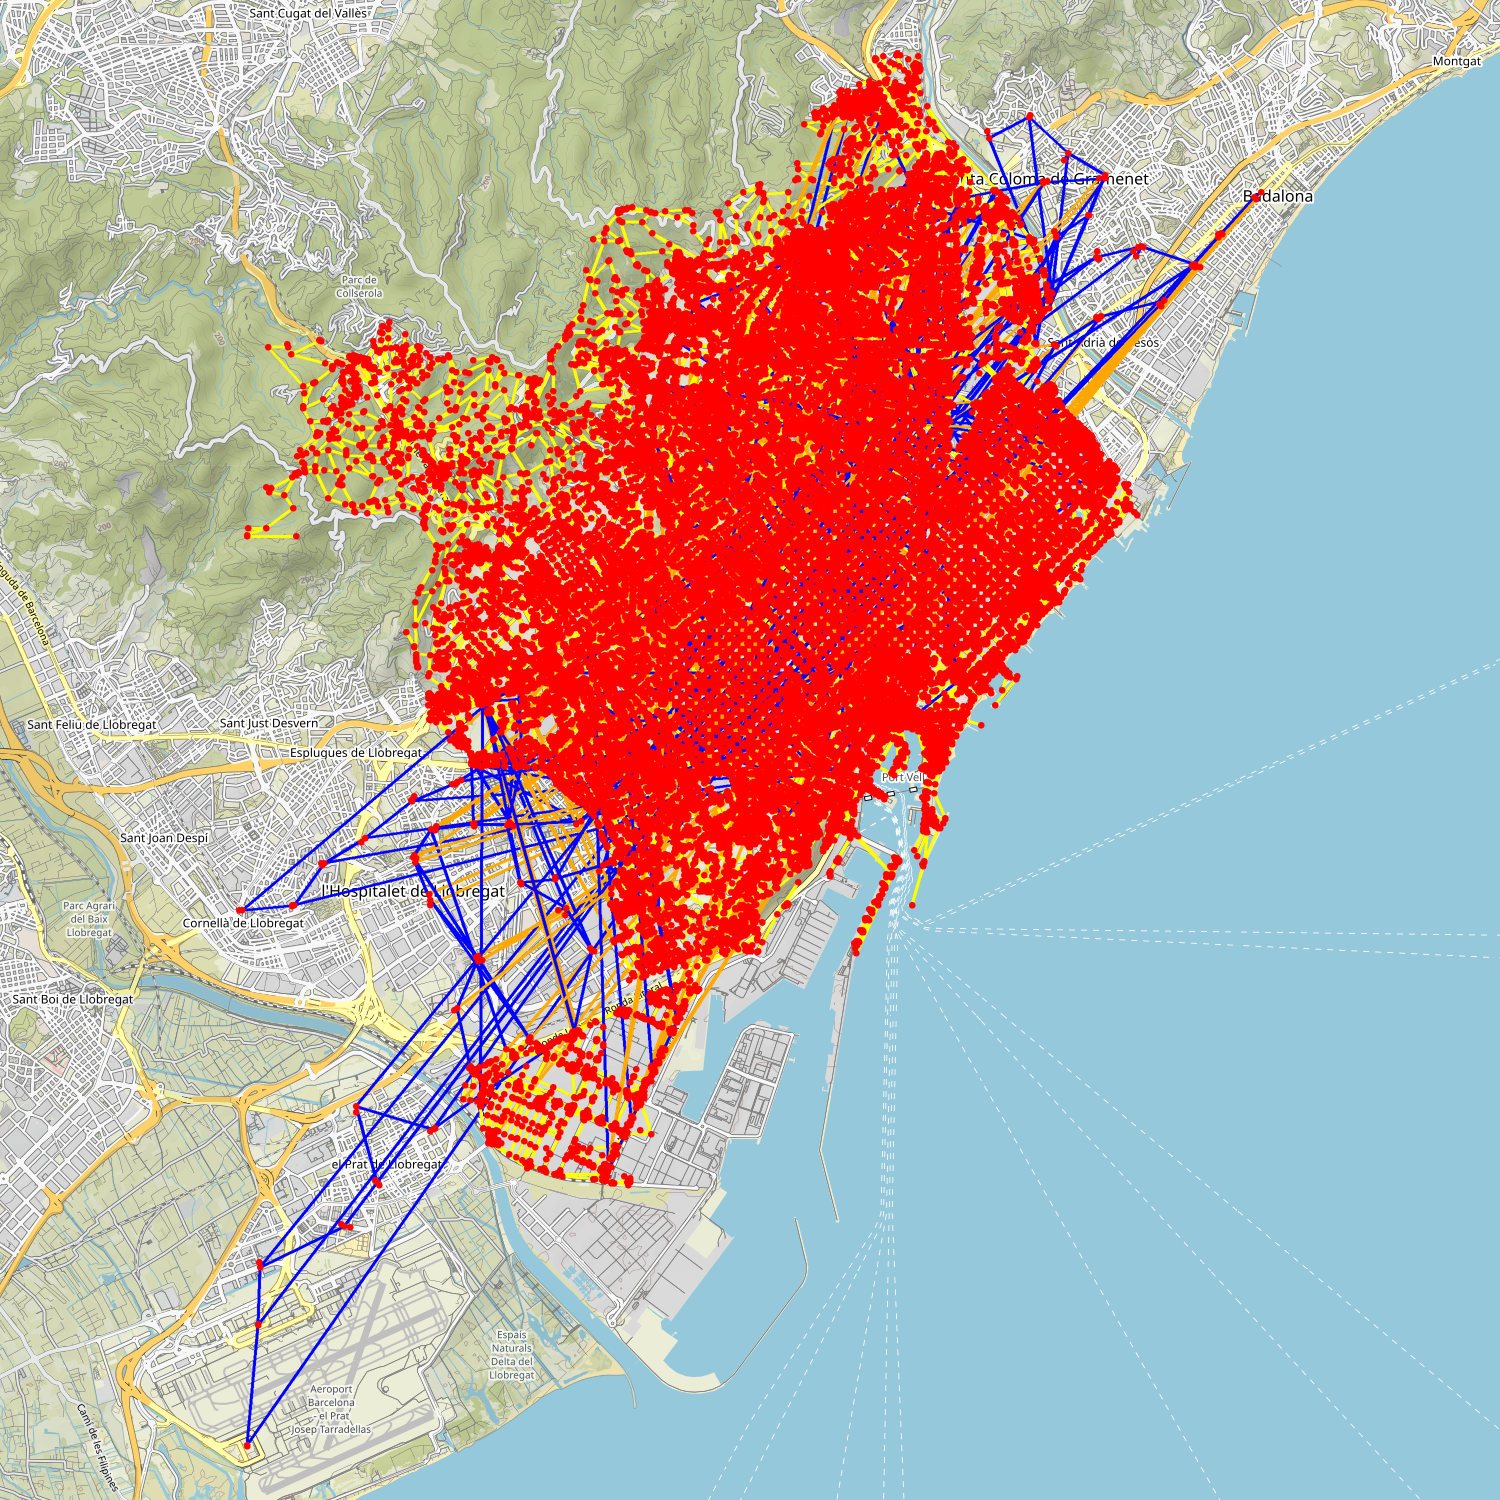
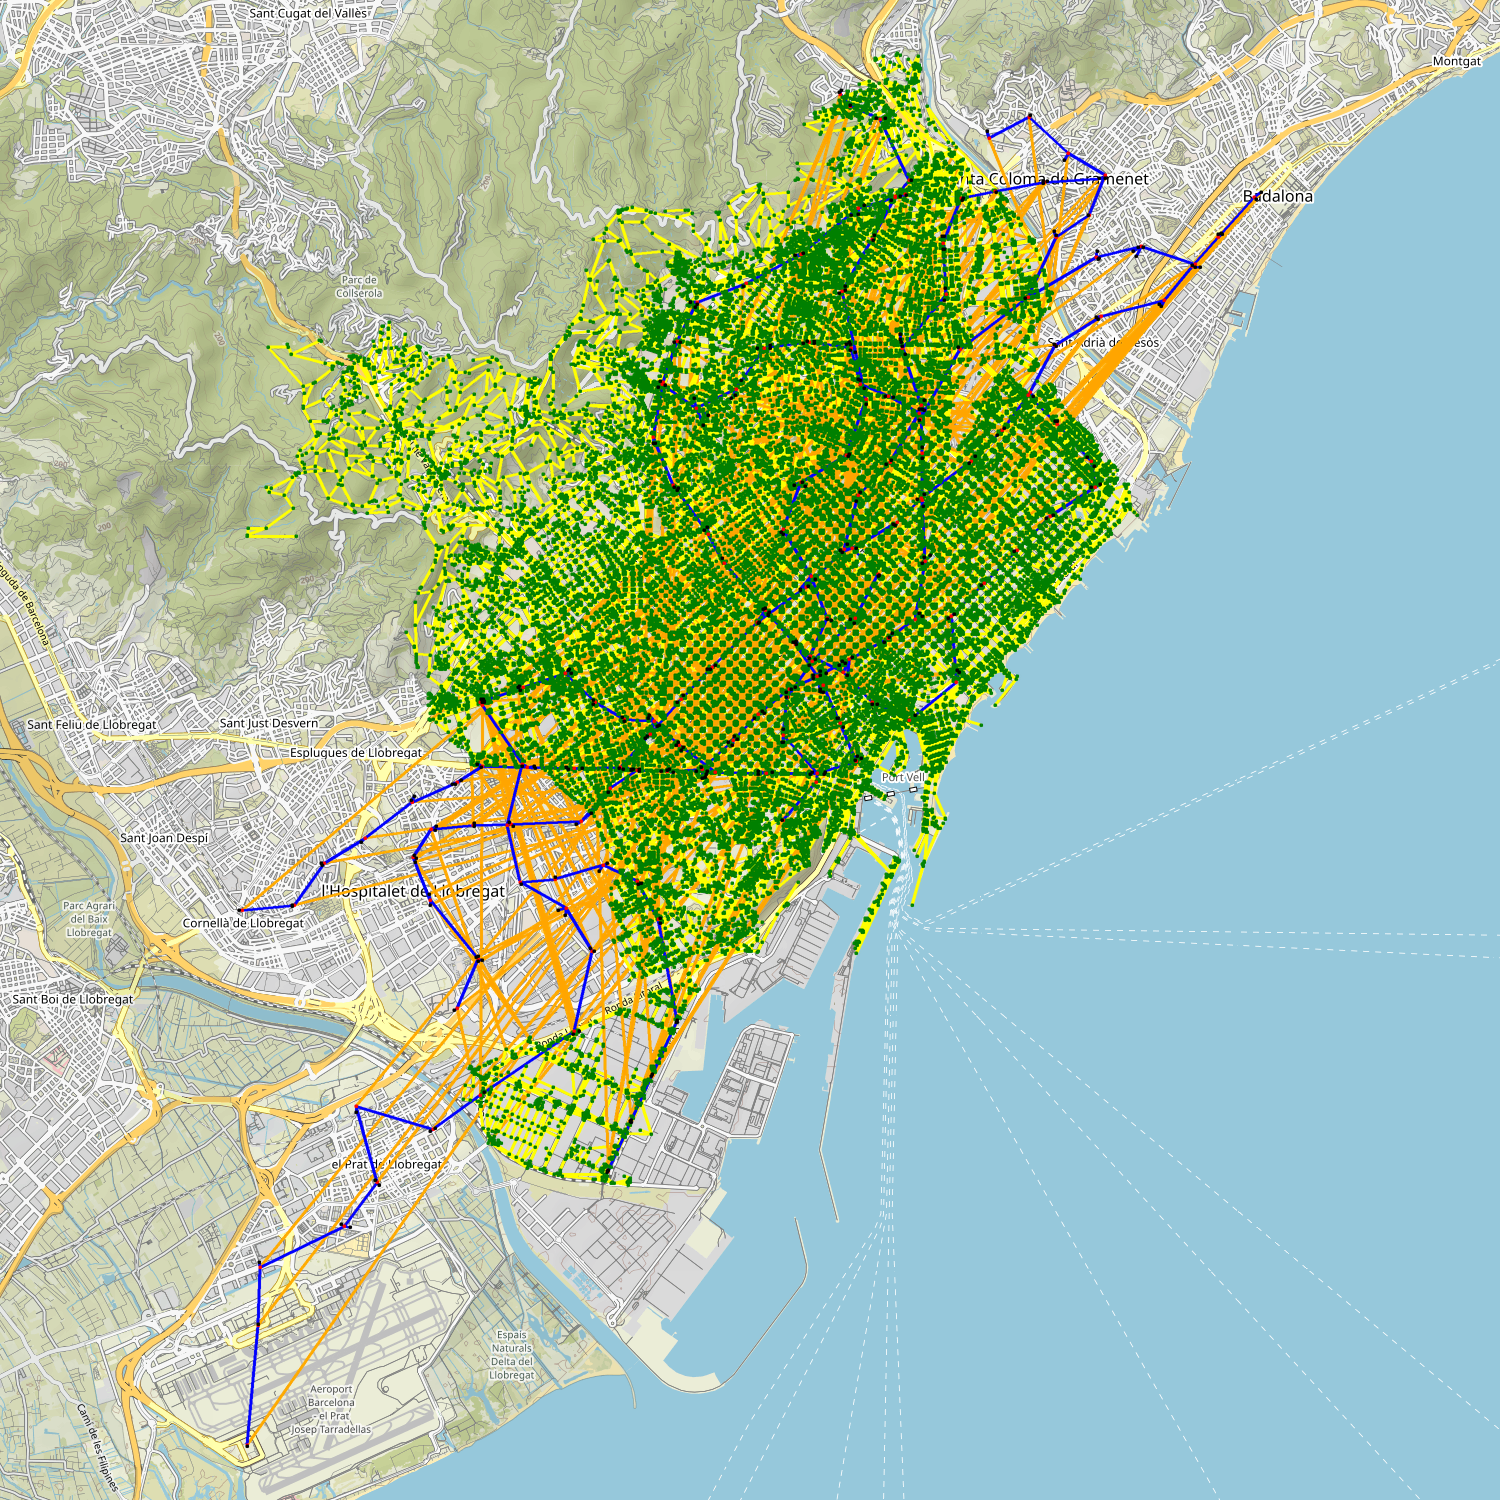
city plotting 1.3 (sense acabar)

diff --git a/city.py b/city.py
@@ -146,13 +146,13 @@ def plot(g: MetroGraph, filename: str) -> None:
     Given a CityGraph g and a filename we create an image of the graph
     g and save it with the corresponding filename
     '''
-    colorTypes = {(None, None) :'yellow', (None, 'access'): 'orange' }
+    colorTypes = {(None, None) :'yellow', (None, 'access'): 'orange', (None, 'station'): 'orange' }
     colorNodes = {'station' : 'red', 'access' : 'black', None : 'green'}
 
     map: StaticMap = StaticMap(SIZE_X, SIZE_Y)
     types = set()
     for u, node in g.nodes(data=True):
-        map.add_marker(CircleMarker(node.get('pos'), colorNodes.get(node), 6))
+        map.add_marker(CircleMarker(node.get('pos'), colorNodes.get(node.get('type')), 3))
     for edge in g.edges:
         t = (g.nodes[edge[0]].get('type'),g.nodes[edge[1]].get('type'))
         types.add(t)
@@ -177,4 +177,9 @@ def test():
     # save_osmnx_graph(g1,"city.pickle")
     g1 = load_osmnx_graph("city.pickle")
     city = build_city_graph(g1, g2)
-    plot(city, 'cityTest.png')
+    show(city)
+    # print('plotting')
+    # plot(city, 'cityTest.png')
+
+
+test()

diff --git a/metro.py b/metro.py
@@ -243,10 +243,6 @@ def show(g: MetroGraph) -> None:
     nx.draw(g, pos=positions, font_size=10,
             node_color="blue",
             node_size=50,)
-<<<<<<< Updated upstream
-    plt.show()
-=======
     #plt.show()
     plt.savefig('plot.svg')
 
->>>>>>> Stashed changes
